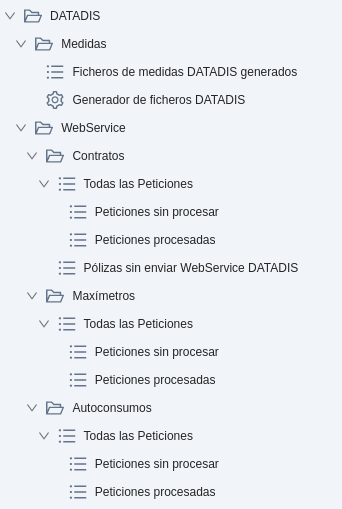
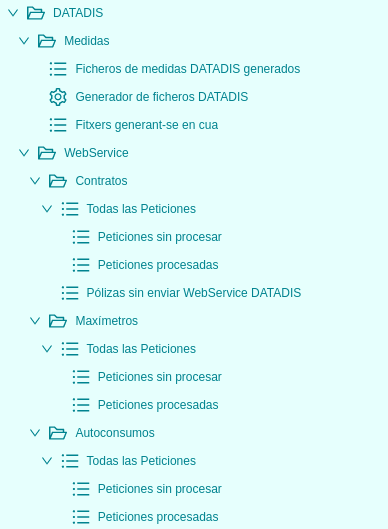
Update DATADIS manual section

Changed region(s): [[0.0, 0.0, 0.8772, 1.0]]

diff --git a/docs/distri/medidas_datadis.md b/docs/distri/medidas_datadis.md
@@ -51,6 +51,20 @@ fitxers es generaran en format de fitxer pla.
     d'utilitzar la corba `Validada`, enlloc de `Facturada`, ja que molt provablement hi haurà subministraments que encara
     no s'hauran facturat i no tindran la corba `CCH_FACT` completa, així que s'utilitza la `CCH_VAL`.
 
+!!! Info "Nota 3"
+    Des de desembre de 2023, és possible generar fitxers `DATADIS_CLMAG` i `DATADIS_CLMAG5A` en format diari, a més a més de en
+    format mensual. Per a fer-ho, n'hi ha prou amb sel·leccionar com a tipus `Diari` al selector de la part superior de l'assistent
+    i introduïr la mateixa data com a data inicial i com a data final. D'aquesta manera, es poden generar els fitxers diaris
+    corresponents al dia `D-2` tal com ASEME va especificar a finals de 2023. És recomanable generar fitxers diaris pel període
+    `M-0` utilitzant la corba `Validada` enlloc de la `Facturada` donat que molt provablement la CCH encara no estarà ajustada a
+    tancaments, al tractar-se de mesures de tan sols uns dies enrere.
+
+* **Fitxers generant-se en cua:** Aquest llistat permet comprovar quantes tasques està duent a terme la cua encarregada de generar
+fitxers. Ja que la cua és compartida entre diversos processos, amb aquest llistat es pot comprovar si l'ERP està generant en segon
+pla algun fitxer. Es tracta doncs d'una eina útil a l'hora de saber si els fitxers haurien d'haver acabat de processar-se o no.
+
+[ ![Assistent Fitxers DATADIS](_static/medidas_datadis/datadis_queues.png)](_static/medidas_datadis/datadis_queues.png)
+
 ### WebService
 
 A més a més dels fitxers de mesures `DATADIS_CLMAG`, `DATADIS_CLMAG5A` i `DATADIS_AUTOCONSUM`, el mòdul de DATADIS permet publicar
